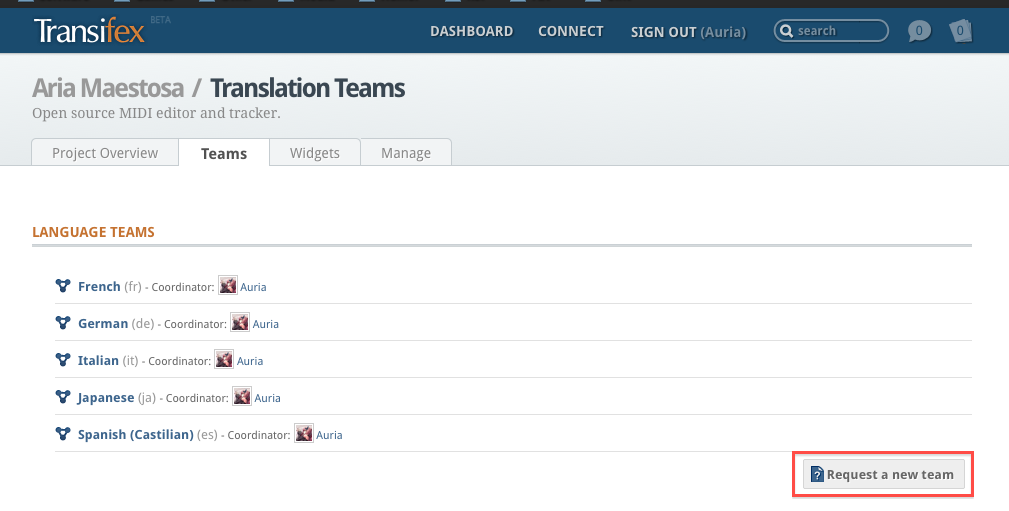
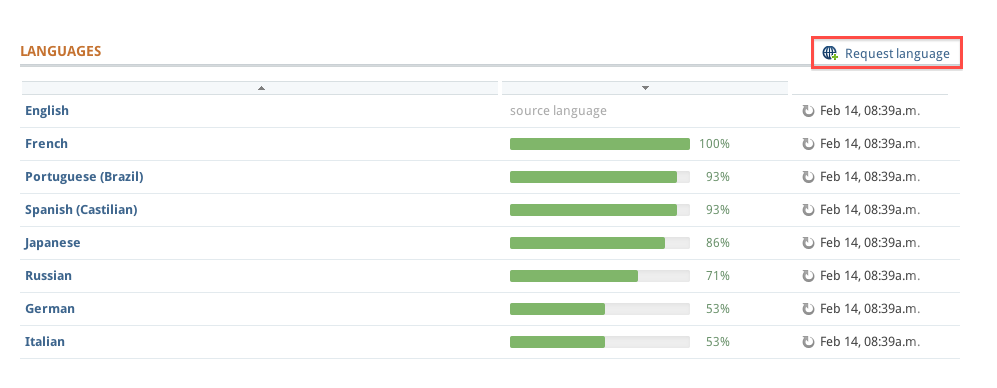
Update translations page for new transifex interface

diff --git a/Resources/Documentation/translations.html b/Resources/Documentation/translations.html
@@ -25,21 +25,20 @@
 </p>
 
 <p>
-    Aria Maestosa uses <a href="https://www.transifex.net/">Transifex</a> for translations
+    Aria Maestosa uses Transifex for translations
 </p>
 
-<br/>
 
 <p>
-    If you are interested in helping translate Aria Maestosa, help is welcome! Start by visiting
-    <a href="https://www.transifex.net/projects/p/ariamaestosa/teams/">the Transifex Aria Maestosa teams page</a>.
+    If you are interested in helping translate Aria Maestosa, help is welcome!<br/>
+    Start by visiting <a href="https://www.transifex.net/projects/p/ariamaestosa/"><b>the Transifex Aria Maestosa page</b></a>.
     <ul>
         <li>If this is your first time on Transifex, you will need to login. You can create a new account,
             or conveniently you can use your Facebook, Twitter or Google account to log in.<br/><br/></li>
-        <li>On the teams page (see link above), start by seeing if a team already exists for the language you are
+        <li>On the langages page (see link above), start by seeing if a team already exists for the language you are
             interested in.<br/><br/></li>
         <ul>
-            <li>If the team exists, click on it and then click on the <b>Join this team</b> button (<b>1.</b> in the image
+            <li>If the language exists, click on it and then click on the <b>Join language translation</b> button (<b>1.</b> in the image
                 below). After you have been approved, you will be able to translate the Application Strings (<b>2.</b> in
                 the image below) from the same page.
                 <br/>
@@ -48,7 +47,7 @@
                 </div>
                 <br/><br/>
             </li>
-            <li>If no team for your language exists, press the <b>Request a new team</b> button or email me
+            <li>If no team for your language exists, press the <b>Request language</b> button or email me
                 (see the Contact page for my email)
                 <br/>
                 <div style="width: 100%; text-align: center;">
